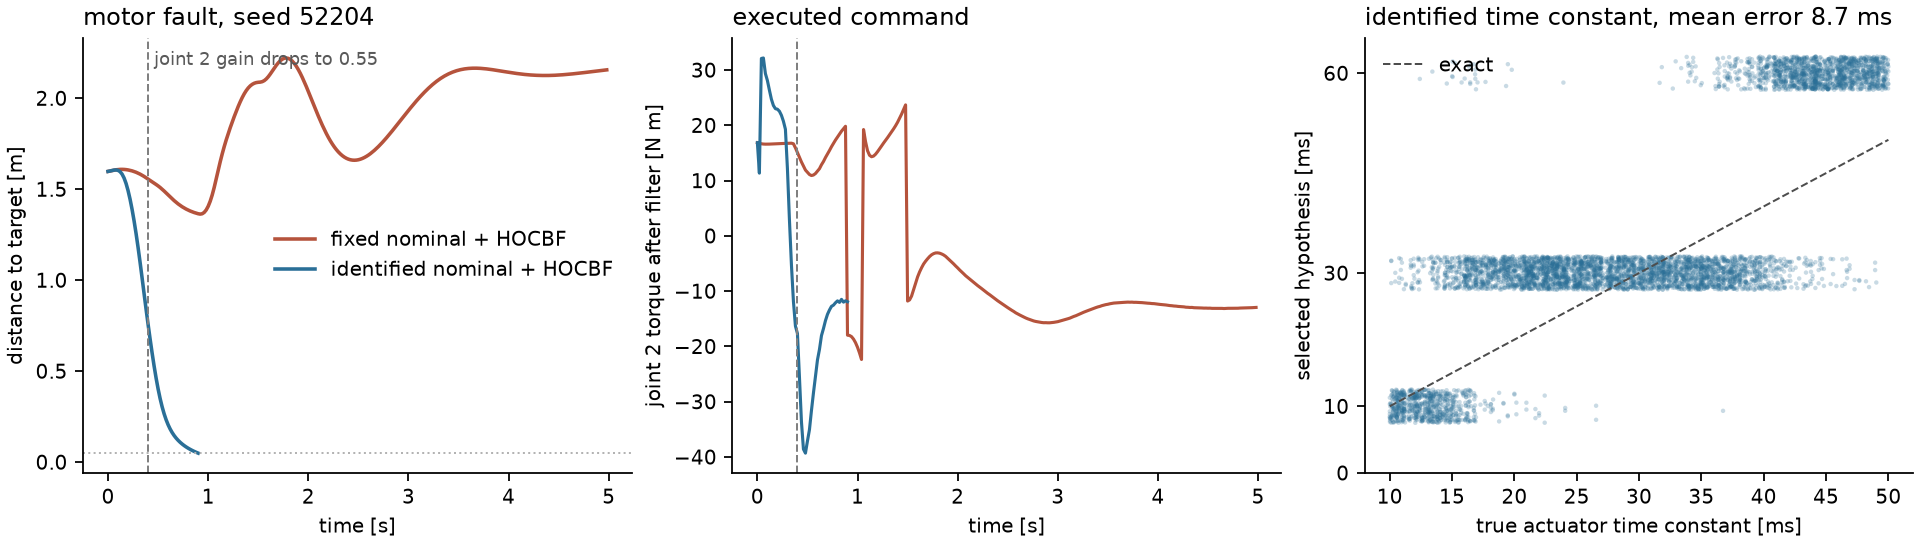
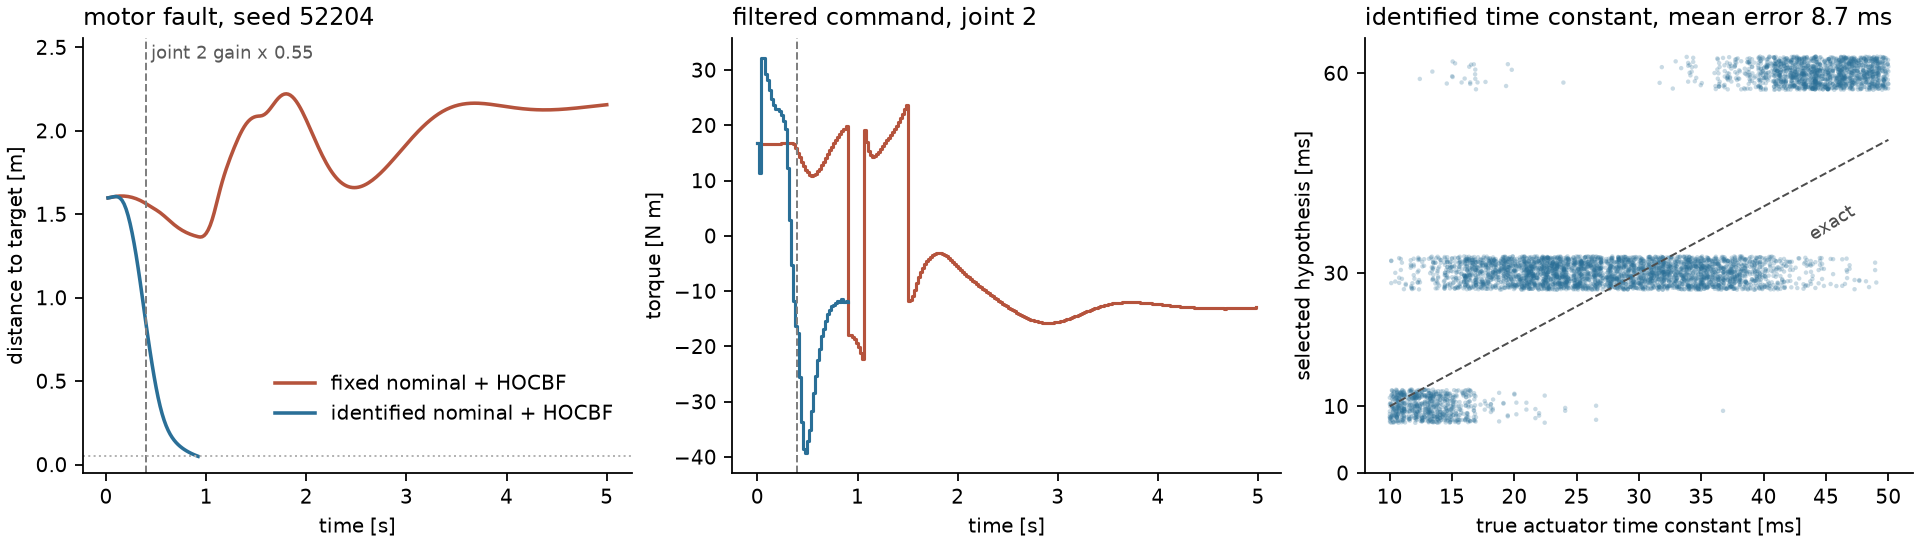
Figure: align samples to their step times and clear label overlaps

diff --git a/tools/make_v20_figure.py b/tools/make_v20_figure.py
@@ -140,33 +140,36 @@ def main() -> int:
     plt.rcParams.update({"font.size": 9, "axes.spines.top": False, "axes.spines.right": False})
     fig, axes = plt.subplots(1, 3, figsize=(12.0, 3.4), constrained_layout=True)
 
+    dt = traces["fixed_hocbf"]["dt"]
+    fault_time = FAULT_STEP * dt
+
+    # Distances are read after each step, so sample i sits at (i + 1) dt; the
+    # command of step i is applied over [i dt, (i + 1) dt) and is drawn as a
+    # step. The fault multiplies the joint 2 gain from step 20 onwards.
     ax = axes[0]
     for arm, trace in traces.items():
-        t = np.arange(len(trace["distance"])) * trace["dt"]
+        t = (np.arange(len(trace["distance"])) + 1) * dt
         ax.plot(t, trace["distance"], color=COLORS[arm], lw=1.6, label=LABELS[arm])
-    ax.axvline(FAULT_STEP * traces["fixed_hocbf"]["dt"], color="0.5", ls="--", lw=0.9)
+    ax.axvline(fault_time, color="0.5", ls="--", lw=0.9)
     ax.axhline(0.05, color="0.7", ls=":", lw=0.9)
     ax.set_xlabel("time [s]")
     ax.set_ylabel("distance to target [m]")
     ax.set_title(f"motor fault, seed {seed}", loc="left")
+    top = 1.15 * max(float(np.max(t["distance"])) for t in traces.values())
+    ax.set_ylim(-0.05, top)
     ax.text(
-        FAULT_STEP * traces["fixed_hocbf"]["dt"],
-        ax.get_ylim()[1] * 0.97,
-        " joint 2 gain drops to 0.55",
-        color="0.35",
-        va="top",
-        fontsize=8,
+        fault_time + 0.05, top * 0.985, "joint 2 gain x 0.55", color="0.35", fontsize=8, va="top"
     )
-    ax.legend(frameon=False, loc="center right")
+    ax.legend(frameon=False, loc="lower right", bbox_to_anchor=(1.0, 0.07))
 
     ax = axes[1]
     for arm, trace in traces.items():
-        t = np.arange(len(trace["torque"])) * trace["dt"]
-        ax.plot(t, trace["torque"][:, 1], color=COLORS[arm], lw=1.4, label=LABELS[arm])
-    ax.axvline(FAULT_STEP * traces["fixed_hocbf"]["dt"], color="0.5", ls="--", lw=0.9)
+        t = np.arange(len(trace["torque"])) * dt
+        ax.step(t, trace["torque"][:, 1], where="post", color=COLORS[arm], lw=1.4)
+    ax.axvline(fault_time, color="0.5", ls="--", lw=0.9)
     ax.set_xlabel("time [s]")
-    ax.set_ylabel("joint 2 torque after filter [N m]")
-    ax.set_title("executed command", loc="left")
+    ax.set_ylabel("torque [N m]")
+    ax.set_title("filtered command, joint 2", loc="left")
 
     ax = axes[2]
     rng = np.random.default_rng(0)
@@ -179,8 +182,8 @@ def main() -> int:
         color=COLORS["adaptive_hocbf"],
         edgecolors="none",
     )
-    ax.plot([10, 50], [10, 50], color="0.3", lw=0.9, ls="--", label="exact")
-    ax.legend(frameon=False, loc="upper left")
+    ax.plot([10, 50], [10, 50], color="0.3", lw=0.9, ls="--")
+    ax.text(45.5, 40.5, "exact", color="0.3", fontsize=8, rotation=32, ha="center", va="top")
     ax.set_yticks(grid * 1e3)
     ax.set_xlabel("true actuator time constant [ms]")
     ax.set_ylabel("selected hypothesis [ms]")

diff --git a/README.md b/README.md
@@ -109,9 +109,9 @@ so the plant port alone does not move the baseline.
 Left and centre: one motor-fault decision episode on the MuJoCo plant, the
 first seed on which the retained log records a timeout for the fixed nominal
 and a clean success for the identified one. The joint 2 gain drops to 0.55 at
-0.4 s while both arms are mid-motion; the identified nominal re-estimates the
-gain within a few steps and reaches the target at 0.9 s, the fixed nominal
-drifts and settles about two metres from it. Right:
+0.4 s while both arms are mid-motion; the identified nominal reaches the
+target at 0.9 s, the fixed nominal drifts and settles about two metres from
+it. Right:
 the actuator time constant selected by the hypothesis bank against the true
 one for all 5,700 adaptive decision episodes; the grid is `{0, 10, 30, 60} ms`
 and the selection favours the slower hypothesis from about 38 ms. The figure
